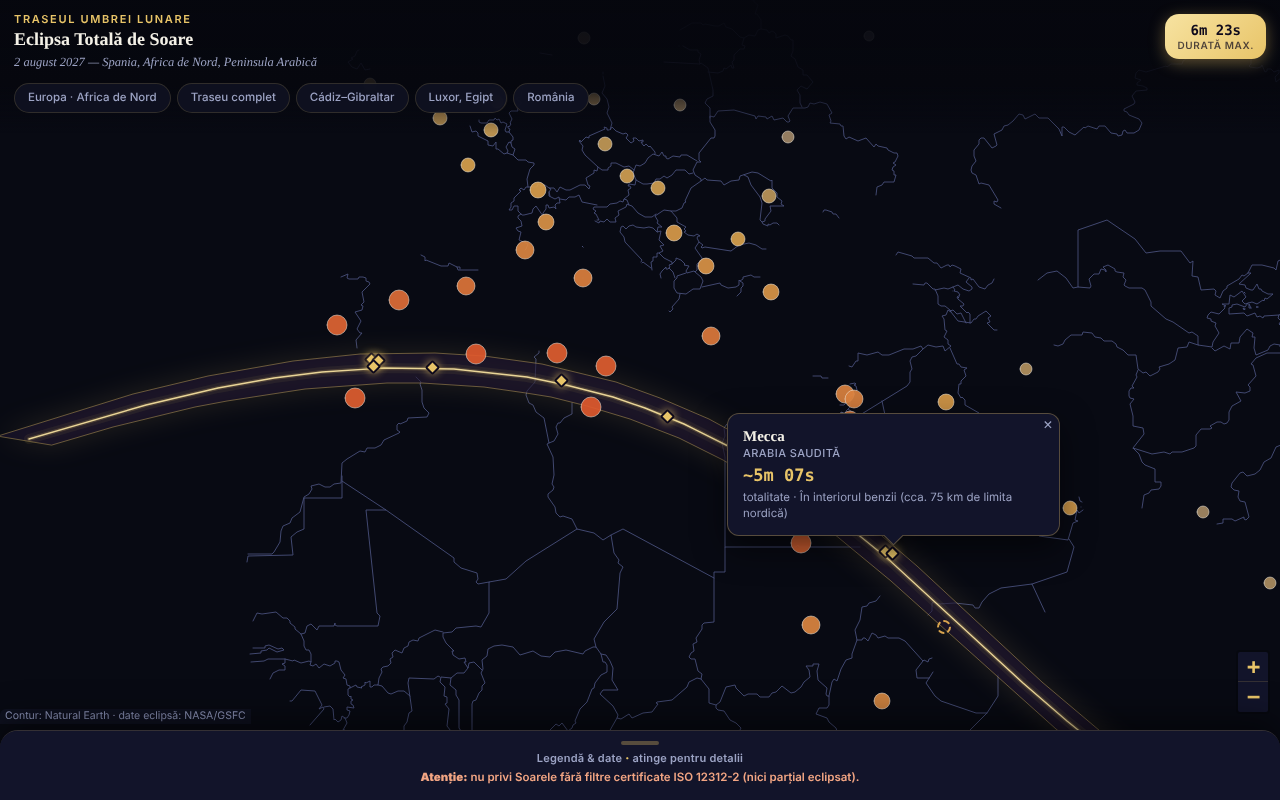
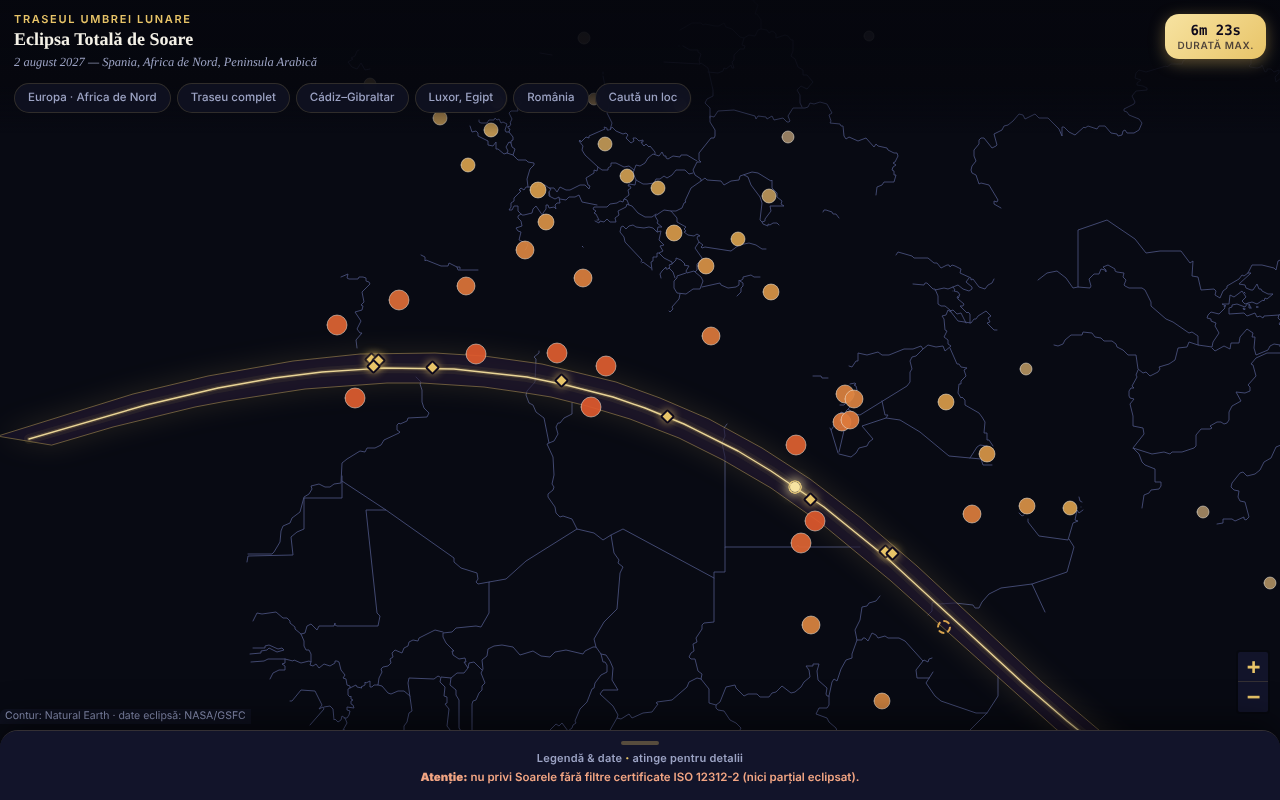
Runda 6 (11 octombrie 2026): reparații și îmbunătățiri
Claude-Session: https://claude.ai/code/session_01D2sCEb3hy3nutYexhUfQFs

Changed region(s): [[0.5625, 0.5, 0.8438, 0.6875], [0.4688, 0.0938, 0.5312, 0.1562]]

diff --git a/index.html b/index.html
@@ -3,7 +3,7 @@
 <head>
 <meta charset="UTF-8">
 <meta name="viewport" content="width=device-width, initial-scale=1, viewport-fit=cover">
-<meta http-equiv="Content-Security-Policy" content="default-src 'none'; script-src 'unsafe-inline'; style-src 'unsafe-inline'; img-src data:; connect-src 'none'; font-src 'none'; form-action 'none'; base-uri 'none'">
+<meta http-equiv="Content-Security-Policy" content="default-src 'none'; script-src 'sha256-w7Ca4k1Rn1nHvCQBQc2PUWo8EMz6bwQ6h5Iv/hRrsxE=' 'sha256-CAWakofPIsWfqRRG744bTpFQC8VFp/floNKqAGgDKJ4='; style-src 'unsafe-inline'; img-src data:; connect-src 'none'; font-src 'none'; form-action 'none'; base-uri 'none'">
 <meta name="description" content="Hartă offline a eclipsei totale de Soare din 2 august 2027: banda de totalitate (Spania, Africa de Nord, Peninsula Arabică), durate și acoperirea parțială pe orașe. Valori informative, calculate din elementele Besselian NASA.">
 <meta property="og:title" content="Eclipsa totală de Soare · 2 august 2027">
 <meta property="og:description" content="Harta benzii de totalitate, durate și procente de acoperire pe orașe. Fără server, fără cont, fără urmărire.">
@@ -779,6 +779,12 @@ svg.leaflet-image-layer.leaflet-interactive path {
   .safety b{color:#f2a583;}
   .safety ul{margin:6px 0 0;padding-left:18px;}
   .safety li{margin:3px 0;}
+  .lookup{display:flex;gap:8px;flex-wrap:wrap;}
+  .lookup input{flex:1 1 180px;min-width:0;font:400 13px/1.2 var(--font-body);color:var(--text-primary);background:var(--bg-panel);border:1px solid var(--line-strong);border-radius:10px;padding:10px 12px;}
+  .lookup button{flex:none;font:600 12px/1 var(--font-body);color:var(--umbra-deep);background:var(--corona-gold);border:0;border-radius:10px;padding:10px 14px;cursor:pointer;}
+  .lookup-out{margin-top:10px;font:400 12.5px/1.5 var(--font-body);color:var(--text-secondary);}
+  .lookup-out b{color:var(--text-primary);}
+  .lookup-pick{display:block;width:100%;text-align:left;margin:0 0 6px;font:500 12.5px/1.3 var(--font-body);color:var(--text-primary);background:var(--bg-panel);border:1px solid var(--line-subtle);border-radius:8px;padding:9px 11px;cursor:pointer;}
   .sources{margin-top:16px;font:400 11px/1.6 var(--font-body);color:var(--text-tertiary);border-top:1px solid var(--line-subtle);padding-top:12px;}
 
   @media (max-width:560px){:root{--peek:88px;}}
@@ -1088,6 +1094,7 @@ svg.leaflet-image-layer.leaflet-interactive path {
     <button data-view="spain">Cádiz–Gibraltar</button>
     <button data-view="luxor">Luxor, Egipt</button>
     <button data-view="romania">România</button>
+    <button data-action="lookup">Caută un loc</button>
   </div>
 </header>
 
@@ -1098,6 +1105,16 @@ svg.leaflet-image-layer.leaflet-interactive path {
     <div class="legend-warn"><b>Atenție:</b> nu privi Soarele fără filtre certificate ISO&nbsp;12312-2 (nici parțial eclipsat).</div>
   </div>
   <div class="legend-body" id="legendBody">
+
+    <div class="lg-section" id="lookupSec">
+      <p class="lg-title">Caută un loc</p>
+      <form class="lookup" id="lookupForm" autocomplete="off">
+        <label for="lookupIn" class="lg-text" style="flex:1 0 100%">Numele unui oraș din listă (ex. Cádiz, Luxor, București) sau coordonate zecimale <b>lat, lon</b> (ex. 36.53, -6.29):</label>
+        <input id="lookupIn" type="text" inputmode="text" spellcheck="false" placeholder="oraș sau lat, lon">
+        <button type="submit">Caută</button>
+      </form>
+      <div class="lookup-out" id="lookupOut" role="status" aria-live="polite"></div>
+    </div>
 
     <div class="lg-section">
       <p class="lg-title">Banda de totalitate</p>
@@ -1204,34 +1221,35 @@ L.polyline(DATA.central, {color:'#f7e3a1', weight:1.4, opacity:0.92})
   .bindPopup('<div class="pop-city">Linia centrală</div><div class="pop-label">Axul benzii de totalitate — durata totalității este maximă în fiecare punct de-a lungul acestei linii.</div>');
 
 // ---- Partial-eclipse cities ----
+const PLACES = [];
 DATA.partial.forEach(([name,country,lat,lon,pct,time])=>{
   const r = 4 + (pct/100)*6.5;
   const col = pctColor(pct);
-  L.circleMarker([lat,lon], {
+  PLACES.push({name,country,lat,lon,mk:L.circleMarker([lat,lon], {
     radius:r, color:'rgba(243,240,230,0.5)', weight:1, fillColor:col, fillOpacity:0.92
   }).addTo(map).bindPopup(
     `<div class="pop-city">${name}</div><div class="pop-country">${country}</div>`+
     `<div class="pop-pct" style="color:${col}">${fmtPct(pct)}%</div>`+
     `<div class="pop-label">din discul solar acoperit &middot; maxim la ${time}</div>`
-  );
+  )});
 });
 
 // ---- Totality-path cities ----
 const diamondIcon = L.divIcon({className:'', html:'<div style="width:11px;height:11px;background:#e8c468;border:2px solid #0f0a1c;border-radius:2px;transform:rotate(45deg);box-shadow:0 0 9px rgba(232,196,104,0.75);"></div>', iconSize:[15,15], iconAnchor:[7,7], popupAnchor:[0,-6]});
 DATA.totality.forEach(([name,country,lat,lon,durat,note])=>{
-  L.marker([lat,lon], {icon:diamondIcon, alt:name+' — totalitate', title:name}).addTo(map).bindPopup(
+  PLACES.push({name,country,lat,lon,mk:L.marker([lat,lon], {icon:diamondIcon, alt:name+' — totalitate', title:name}).addTo(map).bindPopup(
     `<div class="pop-city">${name}</div><div class="pop-country">${country}</div>`+
     `<div class="pop-durat">${durat}</div><div class="pop-label">totalitate${note?' &middot; '+note:''}</div>`
-  );
+  )});
 });
 
 // ---- Edge-of-band cities ----
 const edgeIcon = L.divIcon({className:'', html:'<div style="width:14px;height:14px;border-radius:50%;border:2px dashed #d9a44e;"></div>', iconSize:[14,14], iconAnchor:[7,7], popupAnchor:[0,-6]});
 DATA.edge.forEach(([name,country,lat,lon,note])=>{
-  L.marker([lat,lon], {icon:edgeIcon, alt:name+' — marginea benzii', title:name}).addTo(map).bindPopup(
+  PLACES.push({name,country,lat,lon,mk:L.marker([lat,lon], {icon:edgeIcon, alt:name+' — marginea benzii', title:name}).addTo(map).bindPopup(
     `<div class="pop-city">${name}</div><div class="pop-country">${country}</div>`+
     `<div class="pop-label pop-edge">${note}</div>`
-  );
+  )});
 });
 
 // ---- Greatest-duration point ----
@@ -1243,10 +1261,10 @@ const gdIcon = L.divIcon({
           <div style="position:absolute;top:8px;left:8px;width:10px;height:10px;border-radius:50%;background:#f7e3a1;box-shadow:0 0 12px 3px rgba(247,227,161,0.85);"></div>
         </div>`
 });
-L.marker([gdLat,gdLon], {icon:gdIcon, alt:gdName+' — durata maximă', title:gdName}).addTo(map).bindPopup(
+PLACES.push({name:gdName,country:gdLoc,lat:gdLat,lon:gdLon,mk:L.marker([gdLat,gdLon], {icon:gdIcon, alt:gdName+' — durata maximă', title:gdName}).addTo(map).bindPopup(
   `<div class="pop-city">${gdName}</div><div class="pop-country">${gdLoc}</div>`+
   `<div class="pop-durat">${gdDurat}</div><div class="pop-label">${gdNote}</div>`
-);
+)});
 
 const styleTag = document.createElement('style');
 styleTag.textContent = '@keyframes gdPulse{0%{transform:scale(.5);opacity:.95;}100%{transform:scale(2.1);opacity:0;}}';
@@ -1263,6 +1281,13 @@ const VIEWS = {
 document.getElementById('navRow').addEventListener('click', (e)=>{
   const btn = e.target.closest('button');
   if(!btn) return;
+  if(btn.dataset.action==='lookup'){
+    if(!legend.classList.contains('open')) toggleLegend();
+    const inp=document.getElementById('lookupIn');
+    document.getElementById('lookupSec').scrollIntoView({block:'start'});
+    setTimeout(()=>inp.focus({preventScroll:true}), 60);
+    return;
+  }
   map.flyToBounds(VIEWS[btn.dataset.view], {padding:[24,24], duration:0.9});
 });
 map.fitBounds(VIEWS.overview, {padding:[20,20]});
@@ -1276,6 +1301,72 @@ function toggleLegend(){
 }
 handle.addEventListener('click', toggleLegend);
 handle.addEventListener('keydown', (e)=>{ if(e.key==='Enter'||e.key===' '){ e.preventDefault(); toggleLegend(); } });
+
+// ---- Căutare loc: oraș din listă sau coordonate (calcul local, față de poligonul benzii) ----
+const lkIn=document.getElementById('lookupIn'), lkOut=document.getElementById('lookupOut');
+const norm=s=>String(s).normalize('NFD').replace(/[\u0300-\u036f]/g,'').toLowerCase().replace(/[^a-z0-9' ]+/g,' ').replace(/\s+/g,' ').trim();
+function inBand(lat,lon){
+  let inside=false;
+  for(let i=0,j=bandCoords.length-1;i<bandCoords.length;j=i++){
+    const [yi,xi]=bandCoords[i],[yj,xj]=bandCoords[j];
+    if(((yi>lat)!==(yj>lat))&&(lon<(xj-xi)*(lat-yi)/(yj-yi)+xi)) inside=!inside;
+  }
+  return inside;
+}
+function distLineKm(lat,lon,line){
+  const kx=111.19*Math.cos(lat*Math.PI/180), ky=111.19; let best=Infinity;
+  for(let i=0;i<line.length-1;i++){
+    const ax=(line[i][1]-lon)*kx, ay=(line[i][0]-lat)*ky, bx=(line[i+1][1]-lon)*kx, by=(line[i+1][0]-lat)*ky;
+    const dx=bx-ax, dy=by-ay, L2=dx*dx+dy*dy;
+    let t=L2?(-(ax*dx+ay*dy))/L2:0; t=Math.max(0,Math.min(1,t));
+    const d=Math.hypot(ax+t*dx, ay+t*dy); if(d<best) best=d;
+  }
+  return best;
+}
+function parseCoords(s){
+  const m=s.trim().match(/^(-?\d{1,3}(?:\.\d+)?)\s*[,;\s]\s*(-?\d{1,3}(?:\.\d+)?)$/);
+  return m?[parseFloat(m[1]),parseFloat(m[2])]:null;
+}
+function kmTxt(d){ return d<10?d.toFixed(1).replace('.',','):String(Math.round(d)); }
+function showCoordResult(lat,lon){
+  const inside=inBand(lat,lon);
+  const dEdge=Math.min(distLineKm(lat,lon,DATA.north),distLineKm(lat,lon,DATA.south));
+  const dCen=distLineKm(lat,lon,DATA.central);
+  let h;
+  if(inside){
+    h=`<b>În interiorul benzii de totalitate</b> — la cca. ${kmTxt(dCen)}&nbsp;km de linia centrală și cca. ${kmTxt(dEdge)}&nbsp;km de cea mai apropiată margine. Totalitatea e cu atât mai lungă cu cât ești mai aproape de axă.`;
+    if(dEdge<15) h+=` <b>Ești aproape de margine</b>: aici durata e foarte scurtă și sensibilă la locul exact.`;
+  } else {
+    h=`<b>În afara benzii de totalitate</b> — cea mai apropiată margine e la cca. ${kmTxt(dEdge)}&nbsp;km. Aici eclipsa este doar parțială.`;
+    if(dEdge<15) h+=` Ești aproape de margine; verifică la surse oficiale.`;
+  }
+  h+=`<br>Valori orientative (poligonul benzii are rezoluție de câțiva km, deci în apropierea marginii rezultatul poate fi inexact); nu folosi acest rezultat ca să decizi când e sigur să privești fără filtru. Vezi avertismentul de siguranță de mai jos.`;
+  lkOut.innerHTML=h;
+  map.flyTo([lat,lon], Math.max(map.getZoom(),6), {duration:0.9});
+}
+function pickPlace(p){
+  map.flyTo([p.lat,p.lon], Math.max(map.getZoom(),7), {duration:0.9});
+  setTimeout(()=>p.mk.openPopup(), 950);
+  lkOut.textContent=p.name+' ('+p.country+') — vezi fereastra de pe hartă.';
+  legend.classList.remove('open'); handle.setAttribute('aria-expanded','false');
+}
+document.getElementById('lookupForm').addEventListener('submit',(e)=>{
+  e.preventDefault();
+  const raw=lkIn.value.trim();
+  if(!raw){ lkOut.textContent='Scrie un oraș sau coordonate.'; return; }
+  const c=parseCoords(raw);
+  if(c){
+    if(Math.abs(c[0])>90||Math.abs(c[1])>180){ lkOut.textContent='Coordonate invalide: latitudinea trebuie să fie între −90 și 90, longitudinea între −180 și 180.'; return; }
+    showCoordResult(c[0],c[1]); return;
+  }
+  if(/^[-\d.,;\s]+$/.test(raw)){ lkOut.textContent='Nu am înțeles coordonatele. Folosește puncte zecimale, de ex. 36.53, -6.29 (lat, lon).'; return; }
+  const q=norm(raw);
+  const hits=PLACES.filter(p=>norm(p.name).includes(q)||norm(p.country).includes(q)).slice(0,8);
+  lkOut.innerHTML='';
+  if(!hits.length){ lkOut.textContent='Niciun loc din listă nu se potrivește cu „'+raw+'”. Încearcă fără diacritice sau introdu coordonatele (lat, lon).'; return; }
+  if(hits.length===1){ pickPlace(hits[0]); return; }
+  hits.forEach(p=>{ const b=document.createElement('button'); b.type='button'; b.className='lookup-pick'; b.textContent=p.name+' — '+p.country; b.addEventListener('click',()=>pickPlace(p)); lkOut.appendChild(b); });
+});
 
 // ---- Robustness: force Leaflet to recompute size on mobile viewport quirks
 // (address-bar show/hide, orientation change, keyboard, in-app webview timing) ----
